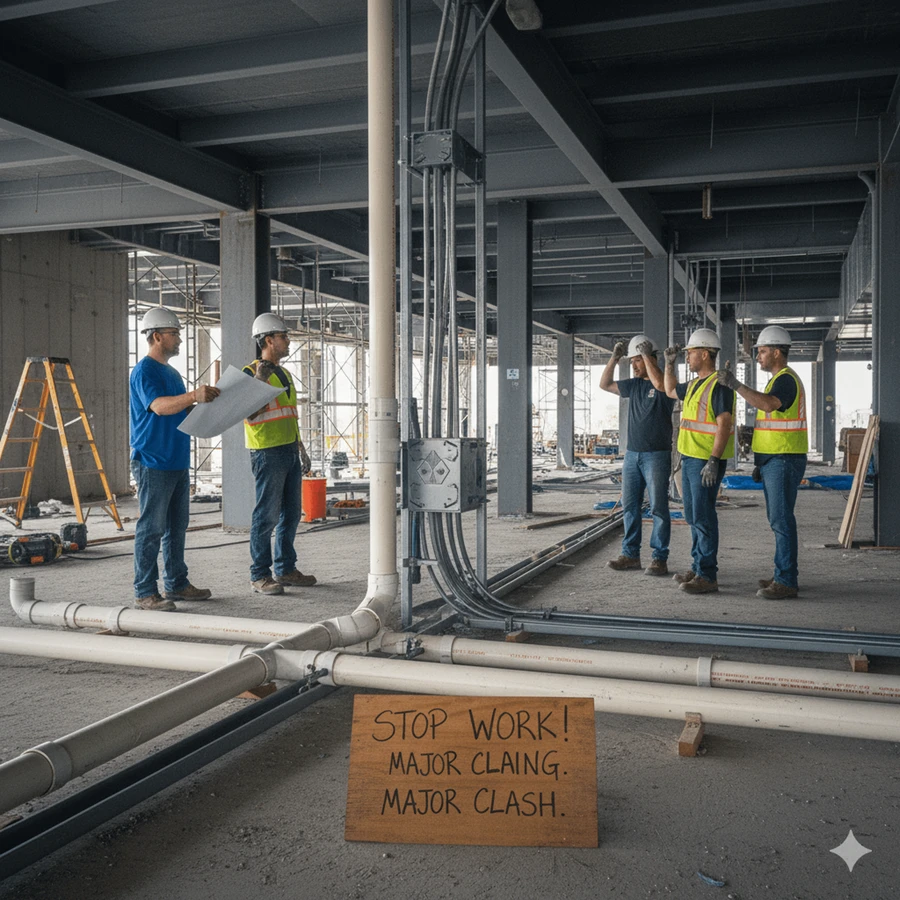
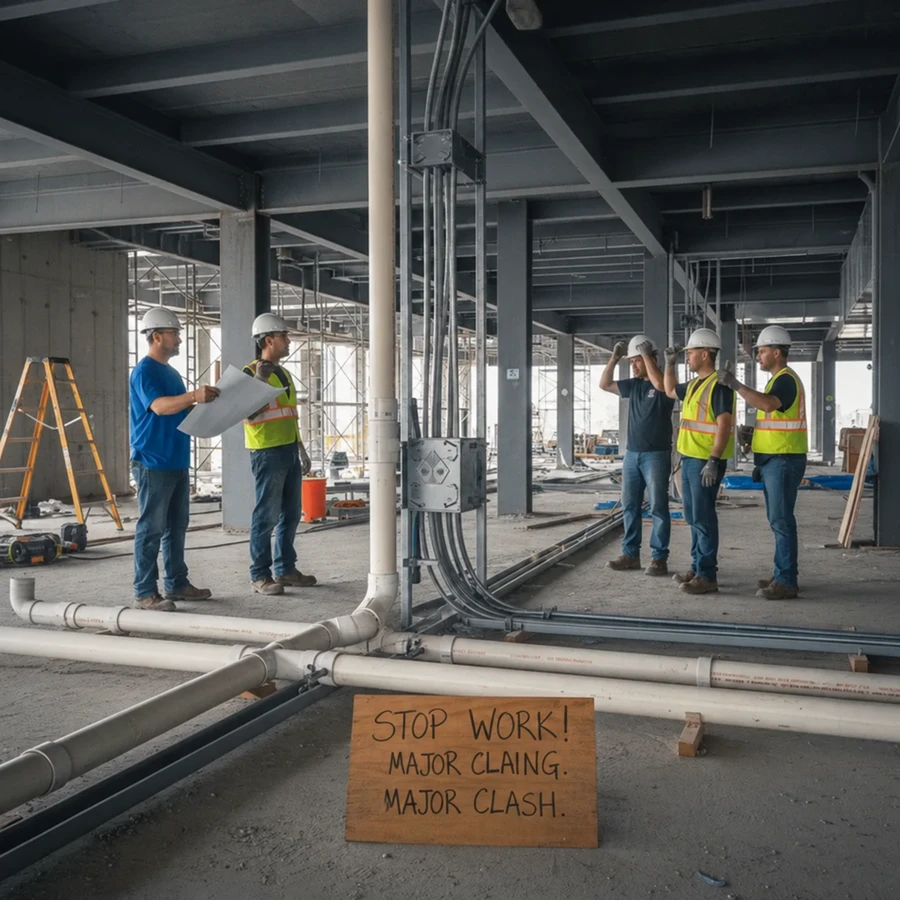
Remove visible Gemini watermark from coordination illustration

diff --git a/docs/trw-image-sources.md b/docs/trw-image-sources.md
@@ -1,5 +1,7 @@
 # TRW Design image migration — 2026-09-21
 
+Visible watermark cleanup: `trw-coordination-context.webp` was edited with the built-in image tool to remove the bottom-right Gemini sparkle and fill it with concrete floor texture. Prompt: remove only the small white four-point watermark; preserve the scene, composition, people, pipes, lighting, and existing sign text. Still presented as an illustration. The estimating, fabrication, and field-tablet assets were inspected and had no visible Gemini sparkle.
+
 User-supplied addition: `ibe-building-coordination.webp` comes from the coordination model screenshot supplied in this conversation (`codex-clipboard-91b8804e-b57e-49ef-b3cb-091aed0c7eb9.png`). Converted to WebP at its original 2873 × 1926 resolution without cropping. Retained for a future placement at the user's request; no project name or location inferred.
 
 `ibe-coordination-detail.webp` comes from the user's subsequent close-up (`codex-clipboard-23ad4fca-581e-49b3-a2a2-aef2b400488c.png`). Converted to WebP at its original 1637 × 1556 resolution without cropping. Replaces the wide view in the Services hero, with a full-resolution link.
